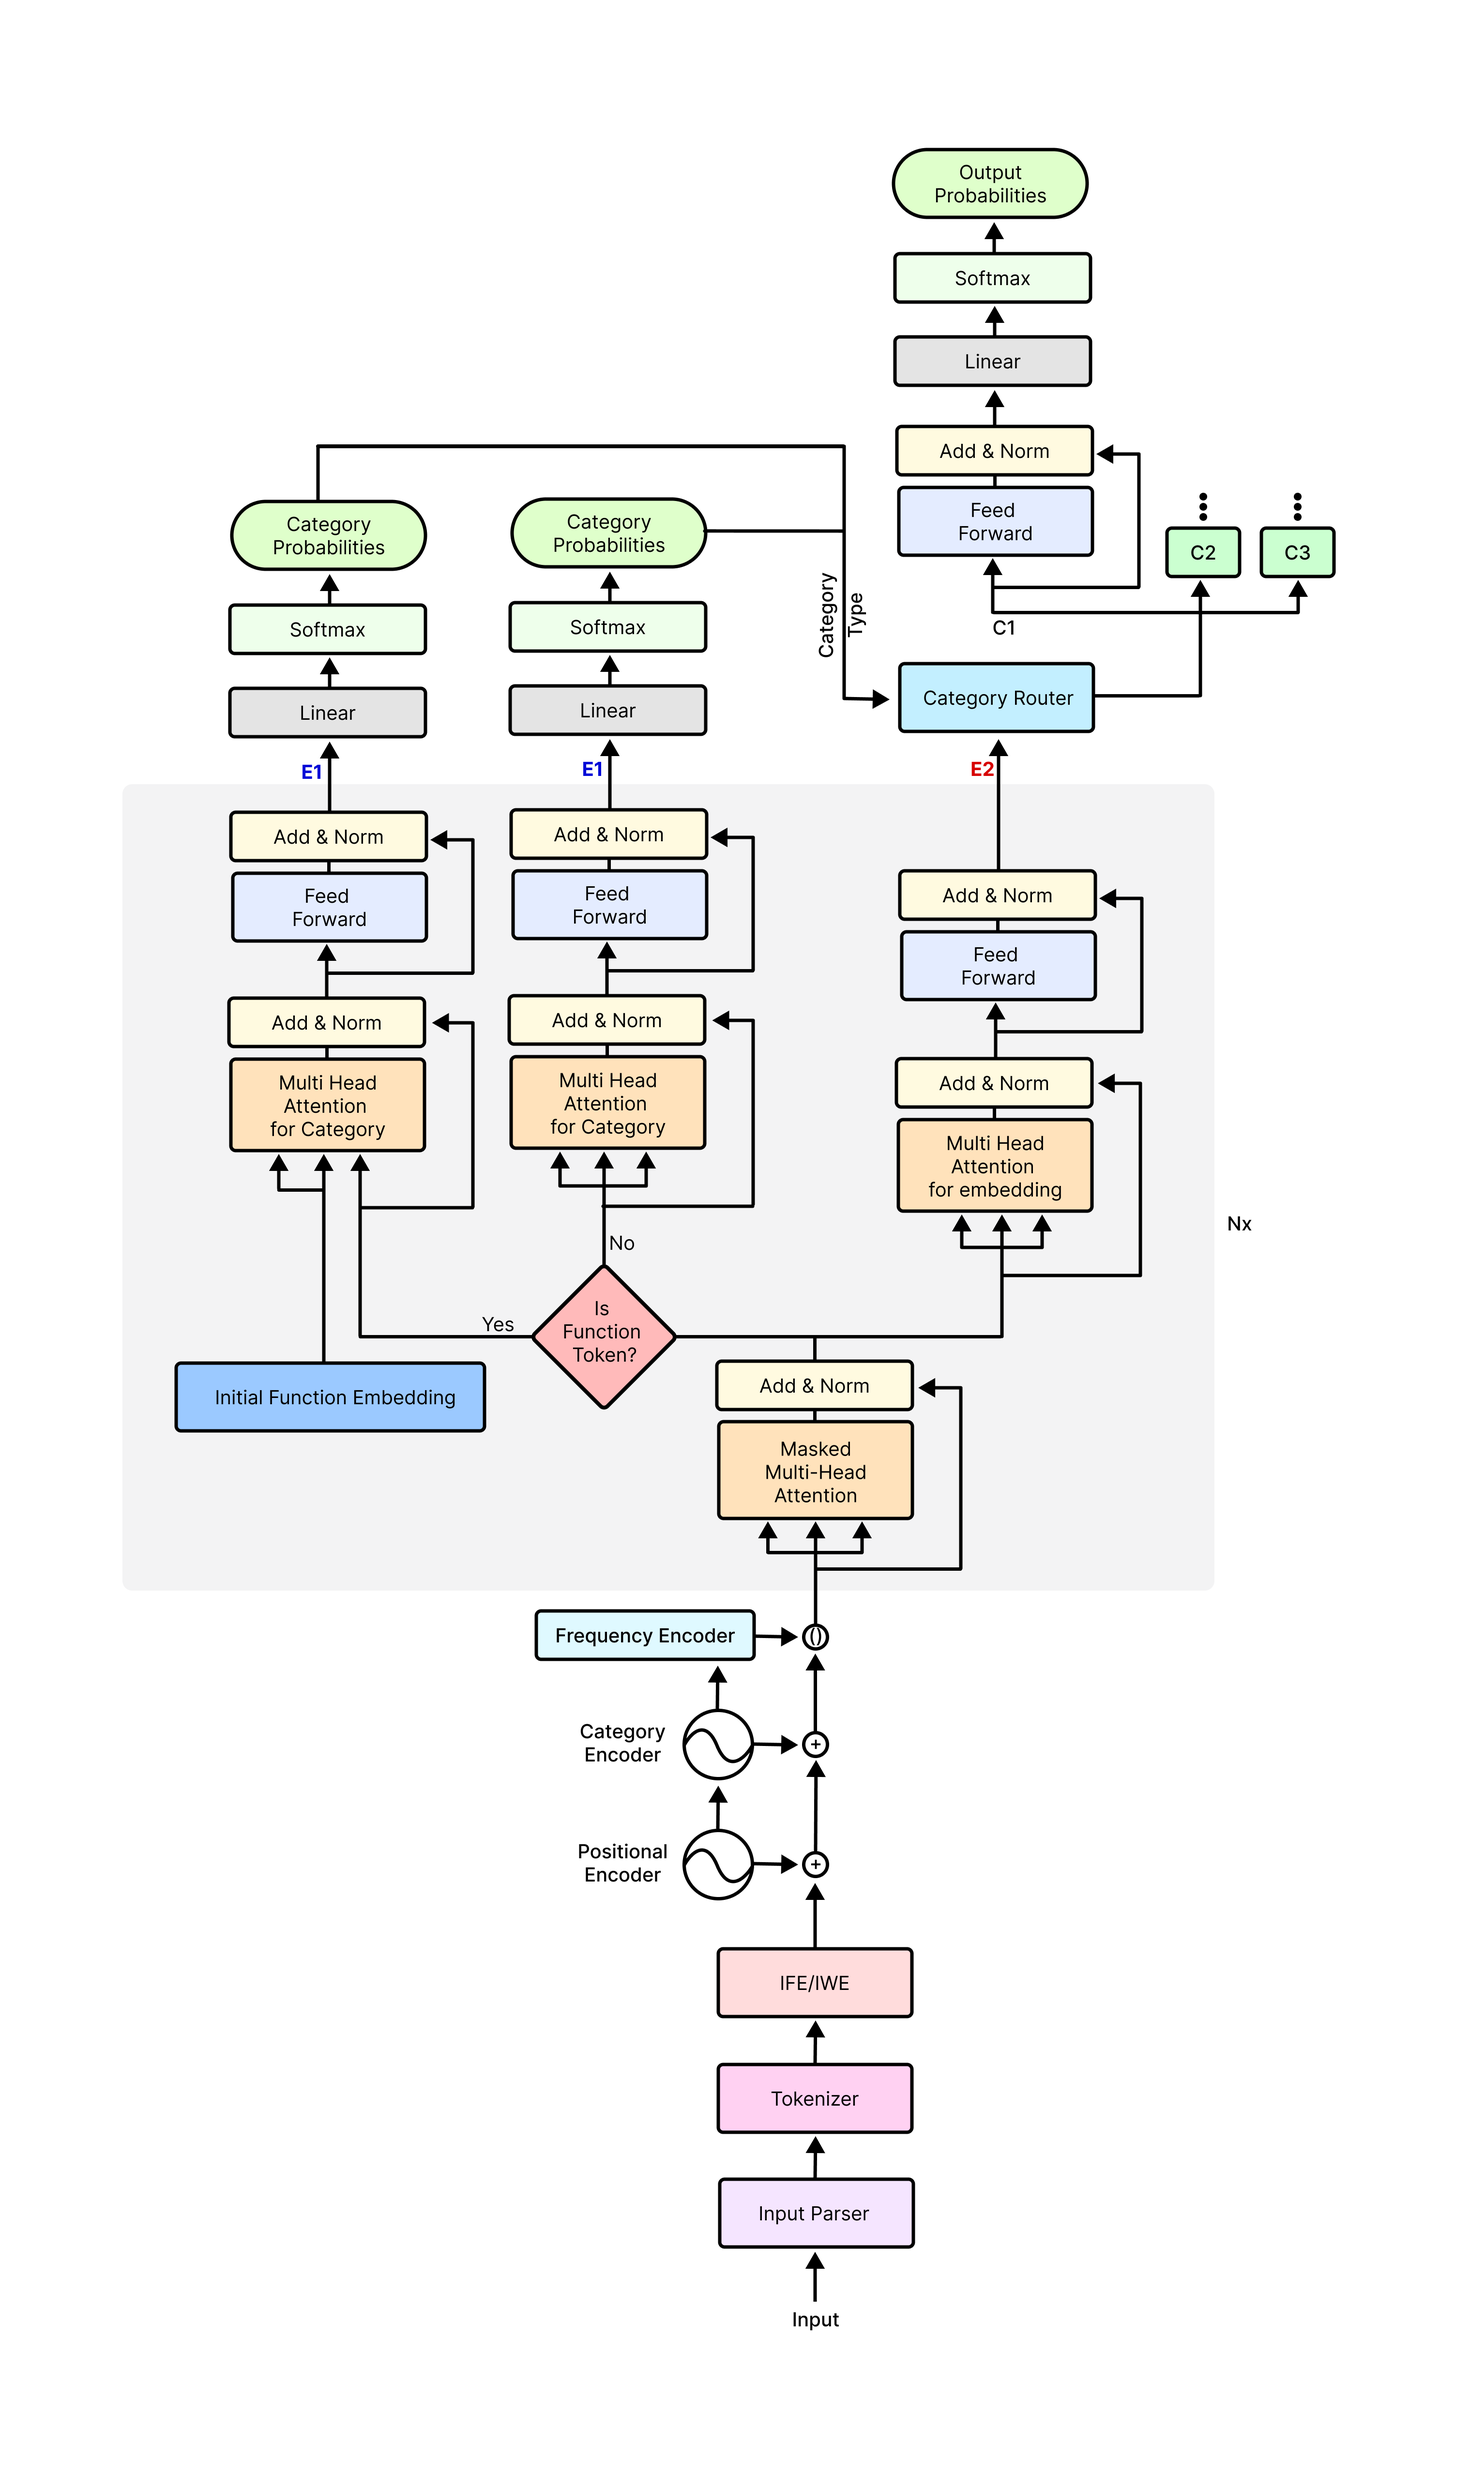
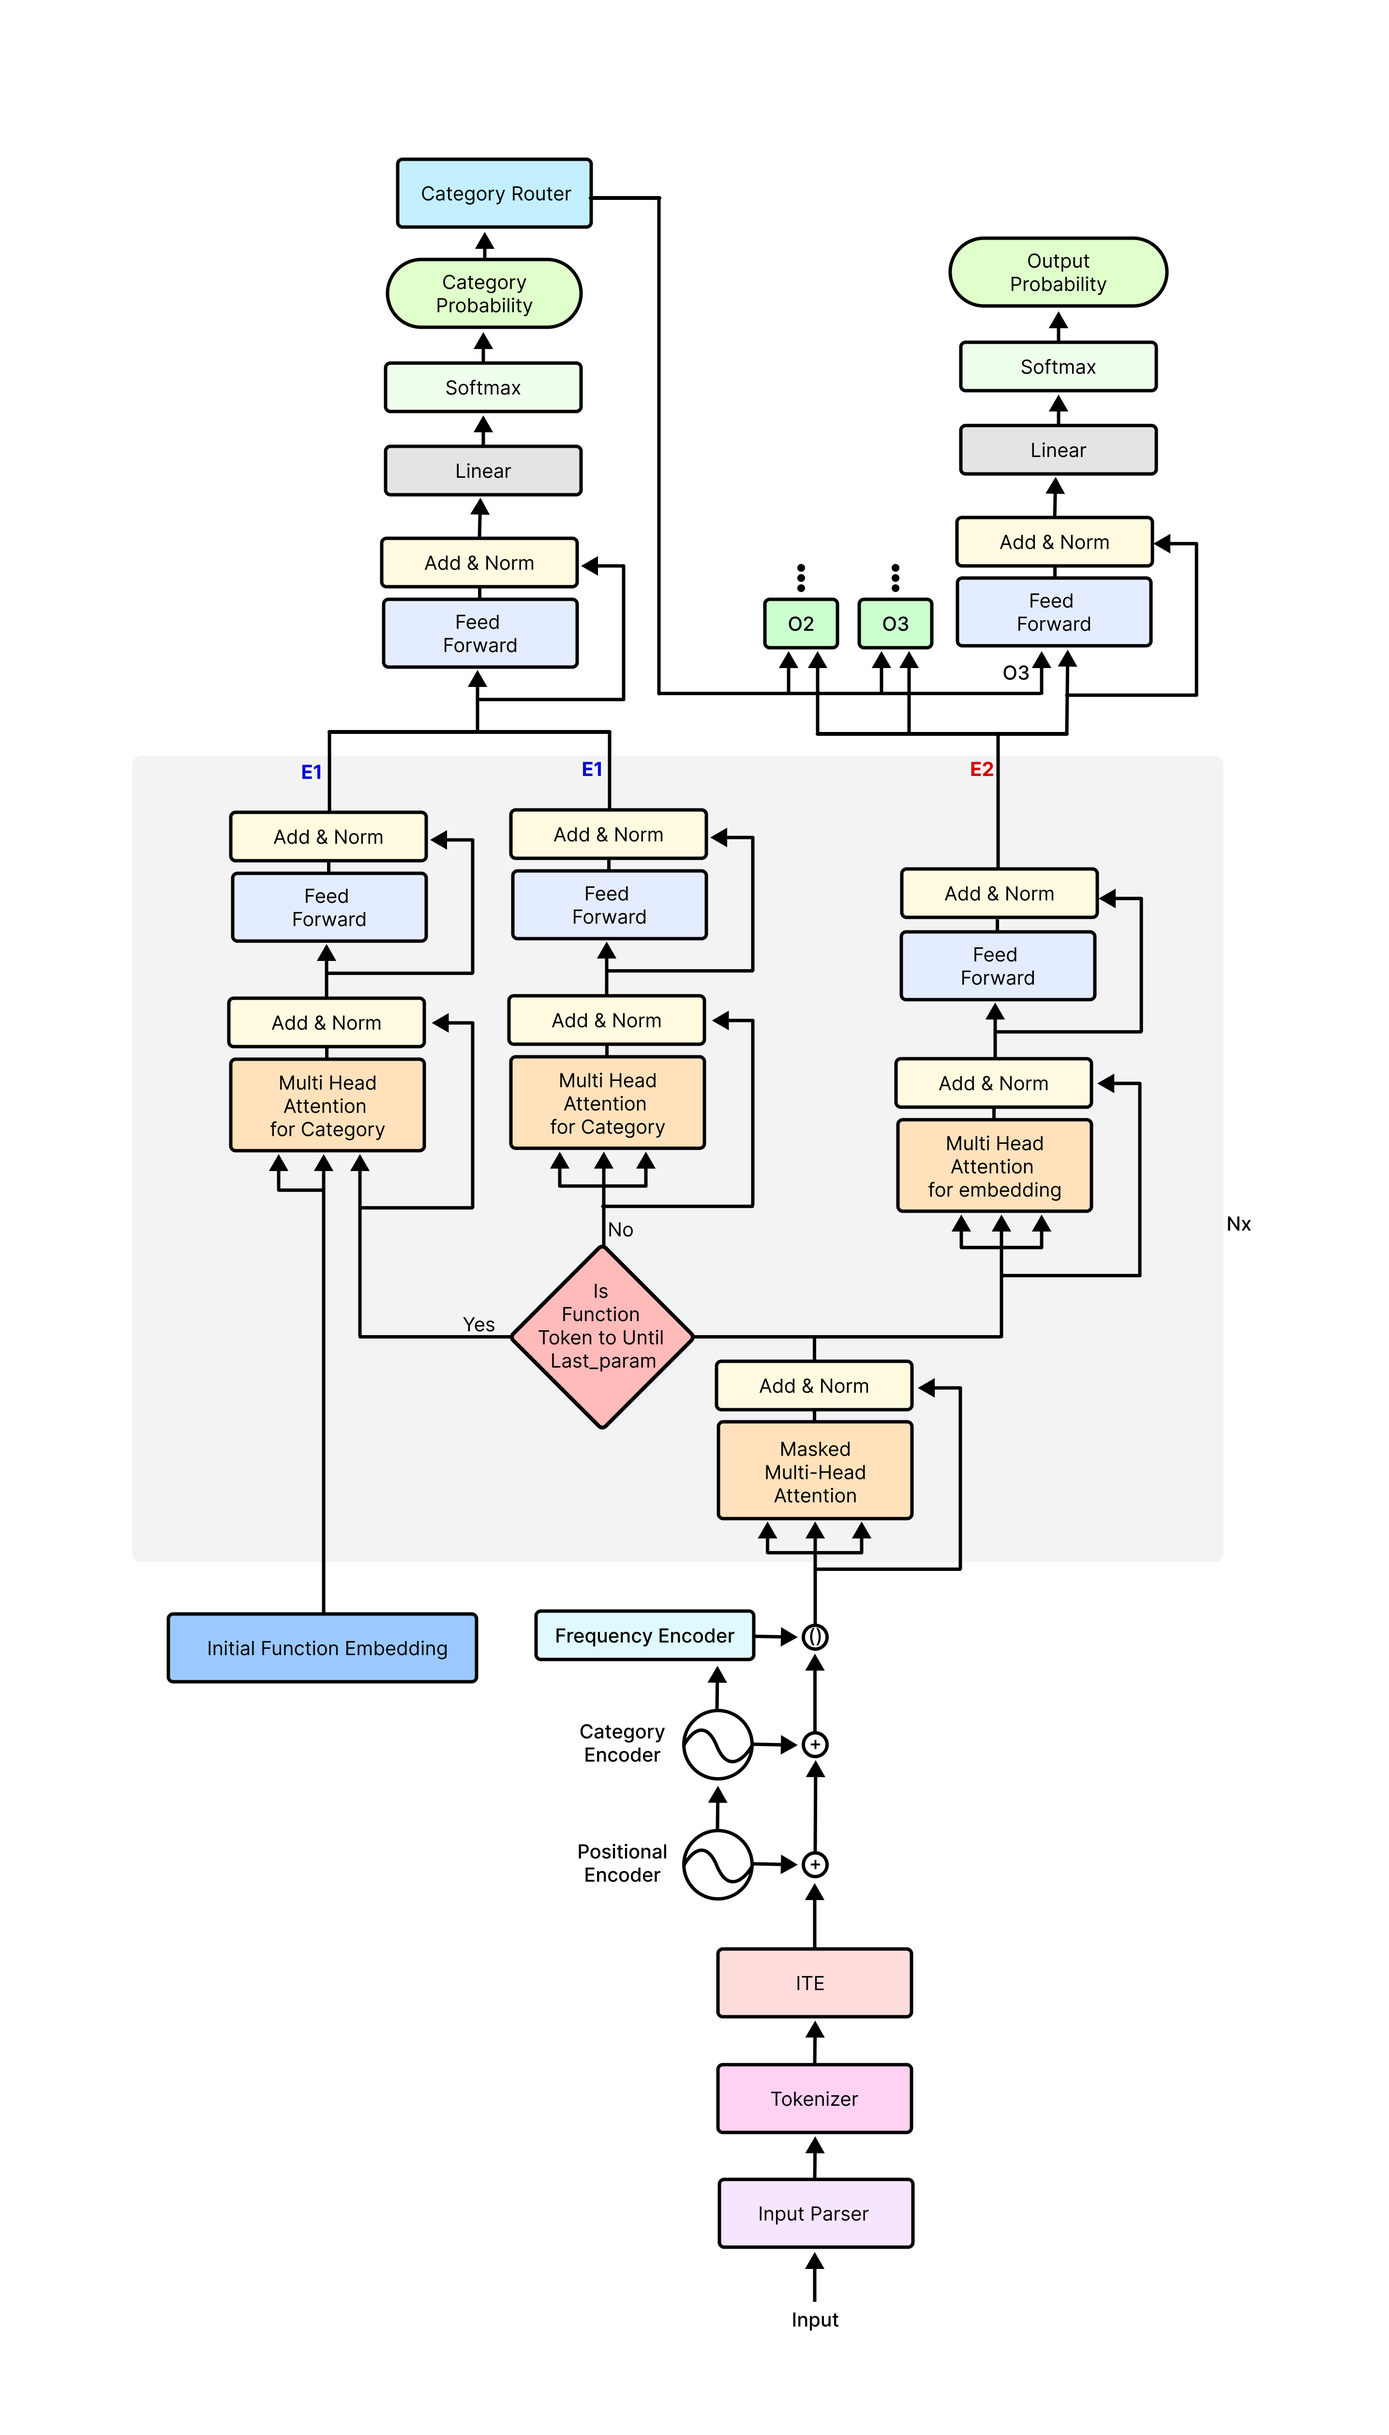
#7: Update the architecture pictures

Changed region(s): [[0.093, 0.0624, 0.93, 0.9676]]

diff --git a/README.md b/README.md
@@ -14,6 +14,6 @@ Goals/Scope for Curious Learner Pre-trainer.
 <img src="./assets/curious_learner_pretrainer_new.png" alt="alt text">
 
 #### Router detailed part
-<img src="./assets/detailed-architecture.png" alt="alt text">
+<img src="assets/detailed_architecture_simple.png" alt="alt text">
 
 
